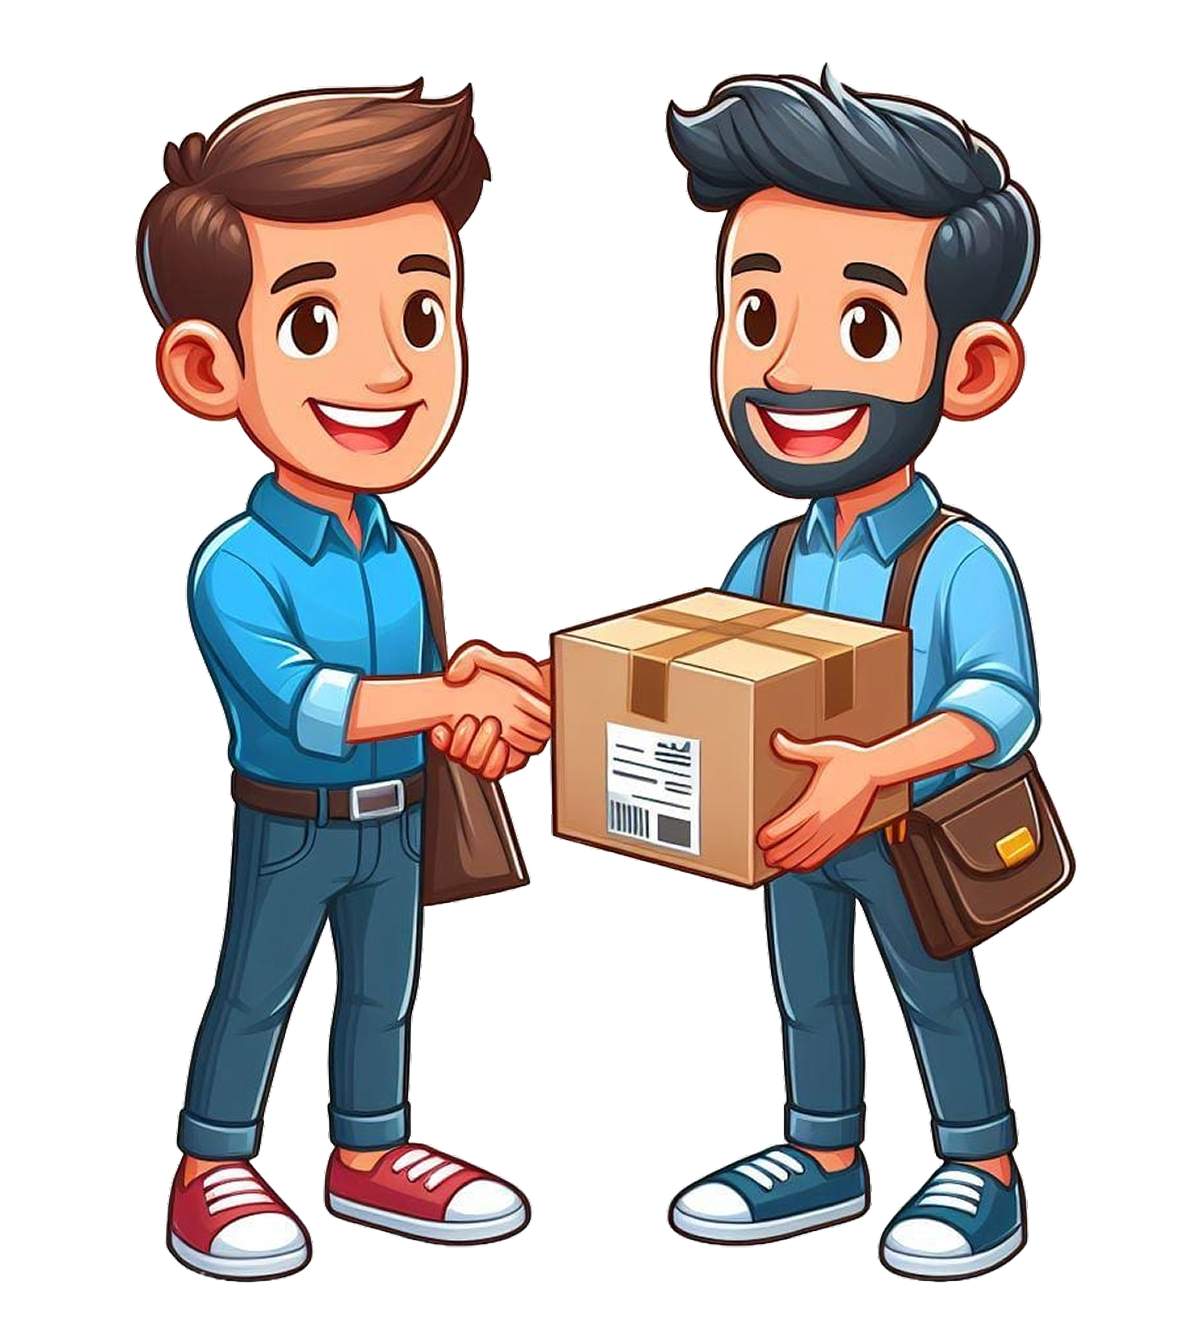
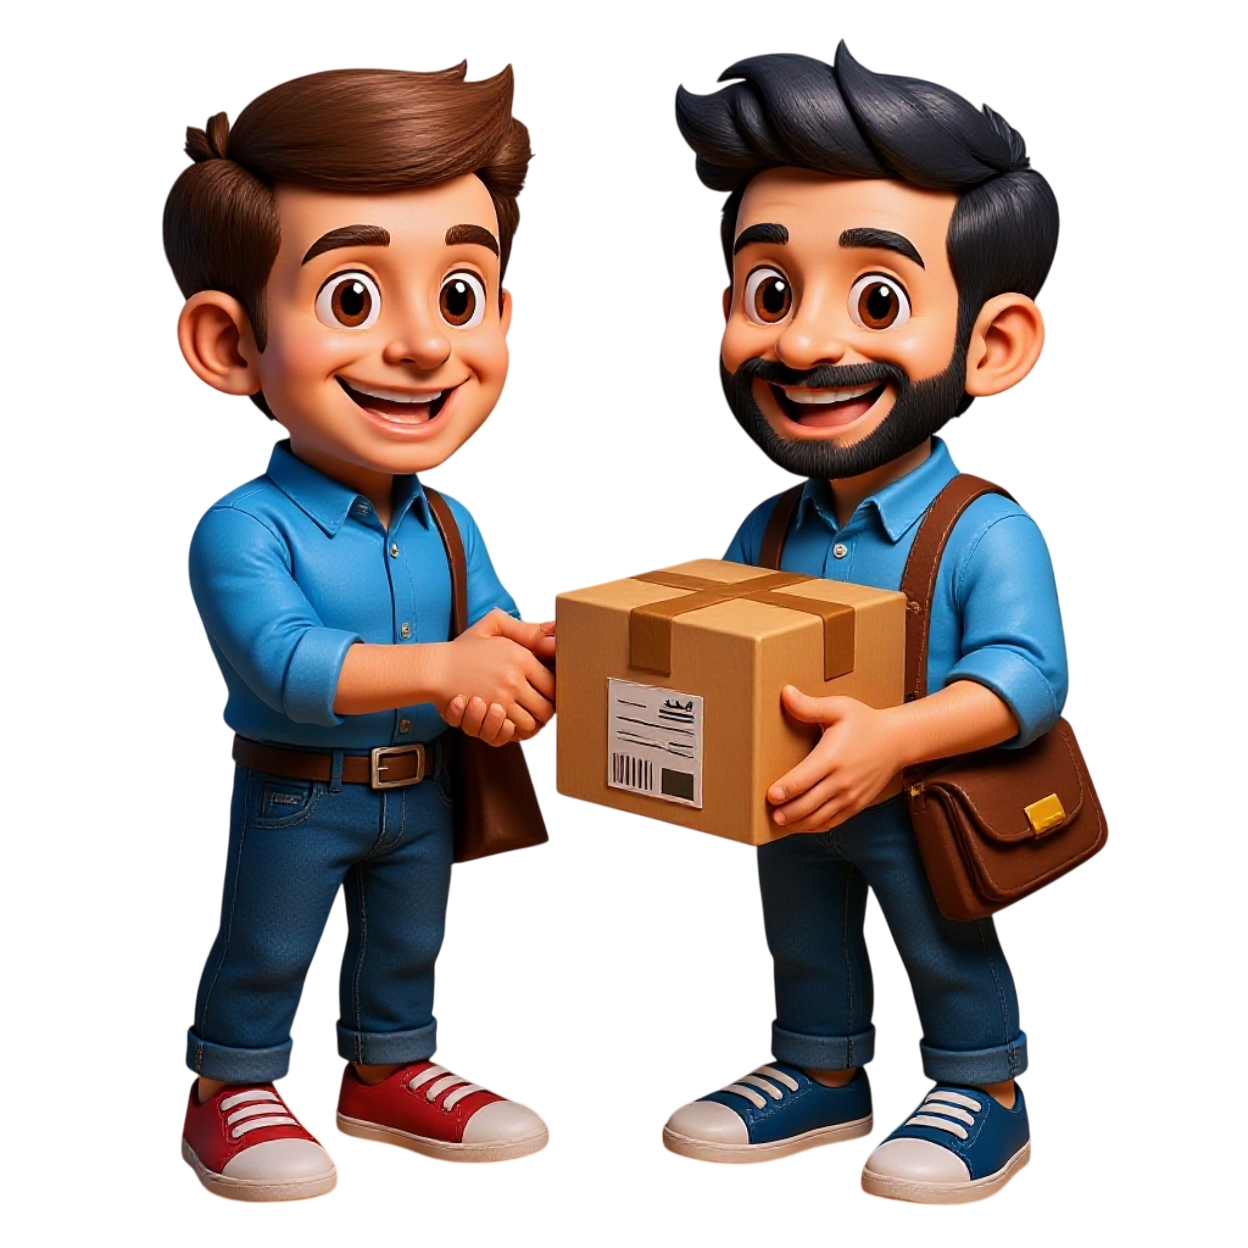
ADD: Updated few images from 2d to 3d Pixel Art

diff --git a/src/Modules/BeforeLogin/WelcomePage/WelcomePageModule.js b/src/Modules/BeforeLogin/WelcomePage/WelcomePageModule.js
@@ -154,20 +154,6 @@ const WelcomePageModule = () => {
 
             {/* About Section */}
             <Box id="about" sx={{ py: { xs: 4, md: 8 }, position: 'relative', overflow: 'hidden' }}>
-                <Box
-                    sx={{
-                        position: 'absolute',
-                        inset: 0,
-                        width: '100%',
-                        height: '100%',
-                        backgroundImage: `url(${"images/Background2.webp"})`,
-                        backgroundSize: 'cover',
-                        backgroundPosition: 'center',
-                        opacity: 0.82,
-                        zIndex: 0,
-                        transform: 'scaleX(-1) scaleY(-1)',
-                    }}
-                />
                 <Container maxWidth="lg">
                     <Grid container spacing={4} alignItems="center">
                         <Grid item xs={12} md={6} sx={{ maxWidth: 600 }}>
@@ -247,6 +233,20 @@ const WelcomePageModule = () => {
                         </Grid>
                     </Grid>
                 </Container>
+                <Box
+                    sx={{
+                        position: 'absolute',
+                        inset: 0,
+                        width: '100%',
+                        height: '100%',
+                        backgroundImage: `url(${"images/Background2.webp"})`,
+                        backgroundSize: 'cover',
+                        backgroundPosition: 'center',
+                        opacity: 0.82,
+                        zIndex: 0,
+                        transform: 'scaleX(-1) scaleY(-1)',
+                    }}
+                />
             </Box>
 
             {/* Features Section */}

diff --git a/scripts/optimize-images.js b/scripts/optimize-images.js
@@ -16,6 +16,8 @@ const imagesToOptimize = [
   'LoginSignup.png',
   'feature-success-stories.png',
   'screenshot.png',
+  'Homepage1.png',
+  'hero-boy-with-dog.png'
 ];
 
 const publicDir = path.join(__dirname, '..', 'public', 'images');
